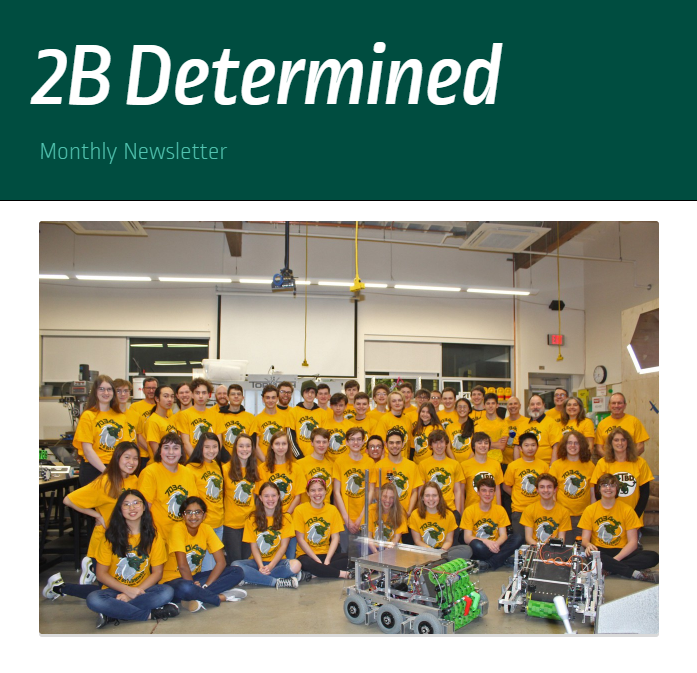
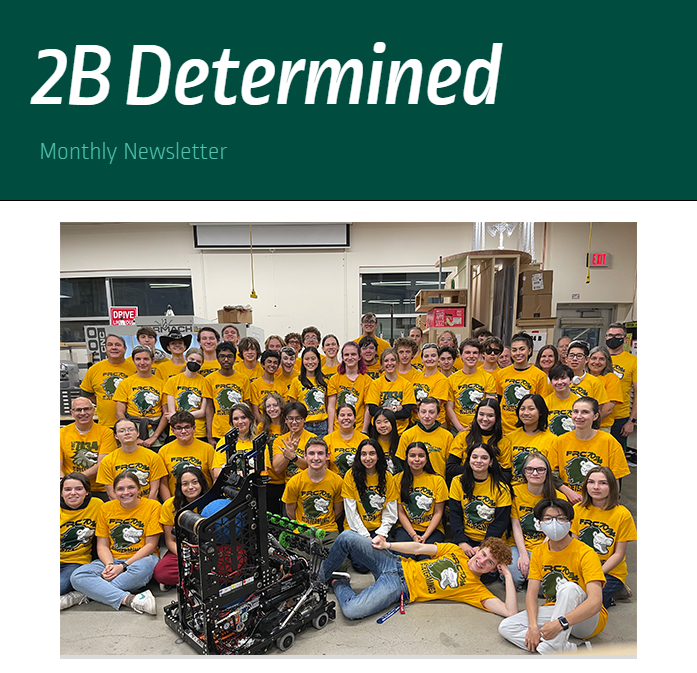
Deleto Stuff and background stuff
Newsletter WIP, don't touch it

diff --git a/website/src/pages/HourOfCode.js b/website/src/pages/HourOfCode.js
@@ -6,7 +6,7 @@ class HourOfCode extends Component {
     render() {
         return(
             <div className="container">
-                <div className="header">
+                <div className="header white-text">
                     <Typewriter
   
                     onInit={(typewriter)=> {
@@ -23,11 +23,11 @@ class HourOfCode extends Component {
                     />
                 </div>
                 <img className="coding-img" src={require("../artifacts/images/Code typing-bro.png")} alt="coding-img"></img>
-                <div className="content">
-                    <div className="second-title"><h2>A great way to start your coding journey~</h2></div>
+                <div className="content white-text">
+                    <div className="second-title white-text"><h2>A great way to start your coding journey~</h2></div>
                     <div className = "dottedLine"></div>
                         <div className="intro">
-                            <h2 className = "h2">Introduction</h2>
+                            <h2 className = "h2 white-text">Introduction</h2>
                             <img className = "intro-img"
                             src = {require("../artifacts/images/Code review-amico.png")}
                             alt = "intro-img"
@@ -45,7 +45,7 @@ class HourOfCode extends Component {
                             <div className = "dottedLine"></div>
                             <div className="elementary">
 
-                                <h2 className="h2">Elementary School Level - Dance Party</h2>
+                                <h2 className="h2 white-text">Elementary School Level - Dance Party</h2>
                                 <img className="dance-img"
                                 src={require("../artifacts/images/dance.gif")}
                                 alt="dance-img"
@@ -57,7 +57,7 @@ class HourOfCode extends Component {
                                         <a className="hoc-btn" href="https://curriculum.code.org/hoc/plugged/8/">Teacher Notes</a> 
                                     </div>
                                 </div>
-                                <p className="dance-body">
+                                <p className="dance-body white-text">
                                 Warm Up - <br />
                                 As a class, first think about “what’s your favorite way to be creative?” <br/>
                                 Today, we are going to be creative “code”, and dancing!! <br/>
@@ -67,7 +67,7 @@ class HourOfCode extends Component {
                                 </p>
                                 
 
-                                <p className="dance-body">
+                                <p className="dance-body white-text">
                                 Go through the tutorial either as a class or in pairs, 
                                 create a dance party of your own, featuring your favorite songs and artists!  <br />
                                 Don’t forget to print out 
@@ -81,7 +81,7 @@ class HourOfCode extends Component {
                             <div className = "dottedLine"></div>
 
                             <div className="middle-school">
-                                <h2 className="h2">Middle School Level - Frozen</h2>
+                                <h2 className="h2 white-text">Middle School Level - Frozen</h2>
                                 <img className="anna-img"
                                 src={require("../artifacts/images/anna.jpg")}
                                 alt="anna-img"
@@ -93,11 +93,11 @@ class HourOfCode extends Component {
                                         <a className="hoc-btn" href="https://curriculum.code.org/hoc/plugged/2/">Teacher Notes </a>
                                     </div> 
                                 </div>
-                                <p className="elsa-body">
+                                <p className="elsa-body white-text">
                                 Warm Up - <br />
                                 As a class, think about what does the word ‘code’ mean? What does “debugging’ mean? <br/>
                                 </p>
-                                <p className="elsa-body">As a class or work in pairs, follow the steps on the instruction <br />
+                                <p className="elsa-body white-text">As a class or work in pairs, follow the steps on the instruction <br />
                                 and code with Elsa and Anna to create a winter wonderland. <br/>
                                  You will create snowflakes and patterns as you ice-skate and <br />
                                  make a winter wonderland that you can then share with your friends! <br />
@@ -113,7 +113,7 @@ class HourOfCode extends Component {
                             
                         <div className = "dottedLine"></div>
                             <div className="high-school">
-                                <h2 className="h2">High School Level - Star Wars</h2>
+                                <h2 className="h2 white-text">High School Level - Star Wars</h2>
                                 <img className="star-wars-img"
                                 src={require("../artifacts/images/star-wars.jpg")}
                                 alt="star-wars-img"
@@ -126,7 +126,7 @@ class HourOfCode extends Component {
                                         <a className="hoc-btn" href="https://code.org/files/star-wars-lp.pdf" >Teacher Notes </a> 
                                     </div>
                                 </div>
-                                <p className="star-wars-body">
+                                <p className="star-wars-body white-text">
                                     Warm up - <br />
                                     As a class, 
                                     discuss what you already know about “coding” or “programming! <br/>
@@ -142,7 +142,7 @@ class HourOfCode extends Component {
                         <div className = "dottedLine"></div>
 
                             <div>
-                                <h2 className="h2">Resources.</h2>
+                                <h2 className="h2 white-text">Resources.</h2>
                                 <p className="body">Below are some amazing free online resources that can teach you about Python, Java, HTML, CSS, and Javascript</p>
                                 <p className="body">Happy coding everyone 🖤💗</p>
                             </div>
@@ -168,7 +168,7 @@ class HourOfCode extends Component {
                                 />
                                 <ul className="java-coding-resources">
                                     <a className="geeksforgeeks" href="https://www.geeksforgeeks.org/java/?ref=shm">GeeksforGeeks - ☕</a><br/>
-                                    <p className="java-descr">This self-paced Java tutorial goes in detail of 
+                                    <p className="java-descr white-text">This self-paced Java tutorial goes in detail of 
                                     what Java is and how Java works, including concepts such as Strings,
                                     Methods, Flow Control etc that will allow you to code a cool program of your own!</p>
                                 </ul>
@@ -181,7 +181,7 @@ class HourOfCode extends Component {
                                 />
                                 <ul className="the-combo-resources">
                                     <a className="w3school-css" href="https://www.w3schools.com">W3Schools - 📑</a><br/>
-                                    <p className="combo-dev">W3Schools include lots of fun practices along with detailed
+                                    <p className="combo-dev white-text">W3Schools include lots of fun practices along with detailed
                                     description for HTML, CSS, and Javascript, the combo you would need to build
                                     a functional website, like this one!</p>
 

diff --git a/website/src/pages/Home.js b/website/src/pages/Home.js
@@ -78,7 +78,7 @@ class Home extends Component {
                                 <h1 className="display-4 font-weight-bold">2B United</h1>
                                 <h1 className="display-4 font-weight-bold">2B Inspired</h1>
                                 <h1 className="display-4 font-weight-bold">2B Determined</h1>
-                                <img src={require('../artifacts/images/2021teamphoto.JPG')} className="d-block w-100" alt="PPE" />
+                                <img src={require('../artifacts/images/TeamPhoto.png')} className="d-block w-100" alt="PPE" />
                                 <div className="row mt-4">
                                     <div className="col-sm-4 mb-2">
 
@@ -137,9 +137,9 @@ class Home extends Component {
                             </div>
                         </div>
                     </div>
-                    <div className="col-sm-8">
-
-                        <div className="jumbotron text-center bg-white">
+                      <div className="col-sm-8">
+{/*
+                      <div className="jumbotron text-center bg-white">
                             <div className="row">
                                 <div className="col-sm my-auto">
                                     <h1 className="display-4 font-weight-bold">Full Steam Ahead Camp</h1>
@@ -160,9 +160,10 @@ class Home extends Component {
                                    <img src={require('../artifacts/images/FULL Steam Ahead/IMG 2.JPG')} className="w-50" alt="PPE" />
                                    <img src={require('../artifacts/images/FULL Steam Ahead/IMG 1.JPG')} className="w-50" alt="PPE" />
                                 </div>
-
+ 
                             </div>
-                        </div>
+                    </div>
+                    */}
 
 
 
@@ -186,6 +187,20 @@ class Home extends Component {
                             </div>
                         </div>
                         */} 
+                        <div className="jumbotron text-center bg-white">
+                            <div className="row">
+                                <div className="col-sm my-auto">
+                                    <h1 className="display-4 font-weight-bold">Newsletter</h1>
+                                    <p className="lead">
+                                        Sign up for our newsletter in order to recieve updates about the team every month!
+                                    </p>
+                                    <a href="https://www.smore.com/63e8z-wlhs-robotics" target="_blank" rel="noopener noreferrer" type="button" className="btn btn-success mx-2 mb-1">View</a>
+                                </div>
+                                <div className="col-sm mt-3 mt-md-0">
+                                    <img src={require('../artifacts/images/newsletter.PNG')} className="d-block w-100" alt="letter" />
+                                </div>
+                            </div>
+                        </div>
 
                         <div className="jumbotron text-center bg-white">
                             <div className="row">
@@ -253,20 +268,7 @@ class Home extends Component {
                             </div>
                         </div>
                         */}
-                        <div className="jumbotron text-center bg-white">
-                            <div className="row">
-                                <div className="col-sm my-auto">
-                                    <h1 className="display-4 font-weight-bold">Newsletter</h1>
-                                    <p className="lead">
-                                        Sign up for our newsletter in order to recieve updates about the team every month!
-                                    </p>
-                                    <a href="https://www.smore.com/7pdna" target="_blank" rel="noopener noreferrer" type="button" className="btn btn-success mx-2 mb-1">View</a>
-                                </div>
-                                <div className="col-sm mt-3 mt-md-0">
-                                    <img src={require('../artifacts/images/newsletter.PNG')} className="d-block w-100" alt="letter" />
-                                </div>
-                            </div>
-                        </div>
+
                         {/*
                         <div className="jumbotron text-center bg-white">
                             <div className="row">

diff --git a/website/src/pages/Sponsors.js b/website/src/pages/Sponsors.js
@@ -1,15 +1,16 @@
 import React, { Component } from 'react';
+import "./test.css";
 
 class Sponsors extends Component {
     render() {
         return(
             <div className="container">
                 <div className="row text-center">
-                    <h2 className="display-4 font-weight-bold w-100">We thank our sponsors for making this program possible!</h2>
+                    <h2 className="display-4 font-weight-bold w-100 white-text">We thank our sponsors for making this program possible!</h2>
                 </div>
                 <hr />
                 <div className="row text-center">
-                    <h1 className="font-weight-bold w-100">Title Sponsors</h1>
+                    <h1 className="font-weight-bold w-100 white-text">Title Sponsors</h1>
                 </div>
                 <div className="row text-center">
                     <div className="col-sm mt-3">
@@ -27,7 +28,7 @@ class Sponsors extends Component {
                 </div>
                 <hr />
                 <div className="row text-center">
-                    <h1 className="font-weight-bold w-100">Gold Sponsors</h1>
+                    <h1 className="font-weight-bold w-100 white-text">Gold Sponsors</h1>
                 </div>
                 <div className="row text-center mt-3">
                     <div className="col-sm mt-3">
@@ -53,7 +54,7 @@ class Sponsors extends Component {
                 </div>
                 <hr />
                 <div className="row text-center">
-                    <h1 className="font-weight-bold w-100">Bronze Sponsors</h1>
+                    <h1 className="font-weight-bold w-100 white-text">Bronze Sponsors</h1>
                 </div>
                 <div className="row text-center mt-3">
                     <div className="col-sm mt-3">
@@ -80,7 +81,7 @@ class Sponsors extends Component {
                 </div>
                 <hr />
                 <div className="row text-center">
-                    <h1 className="font-weight-bold w-100">Community Sponsors</h1>
+                    <h1 className="font-weight-bold w-100 white-text">Community Sponsors</h1>
                 </div>
                 <div className="row text-center mt-3">
                     <div className="col-sm mt-3">
@@ -191,7 +192,7 @@ class Sponsors extends Component {
 
                 <hr />
                 <div className="row text-center">
-                    <h1 className="font-weight-bold w-100">Community Partners</h1>
+                    <h1 className="font-weight-bold w-100 white-text">Community Partners</h1>
                 </div>
                 <div className="row text-center mt-3">
                     <div className="col-sm mt-3">

diff --git a/website/src/pages/SupportUs.js b/website/src/pages/SupportUs.js
@@ -2,12 +2,13 @@ import React, { Component } from 'react';
 import { CopyToClipboard } from 'react-copy-to-clipboard';
 import { FontAwesomeIcon } from '@fortawesome/react-fontawesome';
 import { faCopy } from '@fortawesome/free-solid-svg-icons';
+import "./test.css";
 
 class SupportUs extends Component {
     render() {
         return (
             <div className="row text-center">
-            <h1 className="font-weight-bold w-100">Interested in Supporting Us?</h1>
+            <h1 className="font-weight-bold w-100 white-text">Interested in Supporting Us?</h1>
             <div className="col-sm">
                 <div className="card h-100">
                     <div className="card-body">
@@ -35,6 +36,14 @@ class SupportUs extends Component {
                                     West Linn High School ASB<br />
                                     Attn: Robotics<br />
                                     5464 West A Street West Linn, Oregon 97068
+                                </p>
+                            </div>
+                        </div>
+                        <div className="row px-3">
+                            <div className="m-3 p-3 bg-light w-100 h-100 textCenter addressBox">
+                                <h5>IRS EIN</h5>
+                                <p>
+                                    85-1375698 <br />
                                 </p>
                             </div>
                         </div>

diff --git a/website/src/elements/Navbar.js b/website/src/elements/Navbar.js
@@ -31,7 +31,7 @@ class Navbar extends Component {
                                     </b>
                             </div>
                     </a>*/}
-                    <ul className="navbar-nav mx-auto text-center" style={{paddingRight: "200px"}}> {/*This controls the location in the navbar, used to be ml-auto*/}
+                    <ul className="navbar-nav mx-auto text-center" style={{paddingRight: "50px"}}> {/*This controls the location in the navbar, used to be ml-auto*/}
                         <NavElement to="/home">Home</NavElement>
                         <li className="nav-item dropdown">
                             <a className="nav-link dropdown-toggle" href="#" role="button" data-toggle="dropdown">
@@ -59,7 +59,9 @@ class Navbar extends Component {
                         </li>
                         <NavElement to="/calendar">Calendar</NavElement>
                         <NavElement to="/sponsors">Our Sponsors</NavElement>
+                        {/*<NavElement to="/Newsletter">Newsletter</NavElement>*/}
                         <NavElement to="/SupportUs">Support Us</NavElement>
+
                 </ul>    
                         {/*<NavElement to="#">Scouting Information</NavElement>*/}
                         

diff --git a/website/src/pages/Newsletter.js b/website/src/pages/Newsletter.js
@@ -1,0 +1,24 @@
+import React, { Component } from 'react';
+
+{/* https://www.smore.com/63e8z-wlhs-robotics Update */}
+    class Newsletter extends Component {
+        render() {
+            return (
+                <div className="container-fluid">
+                <div className="row">
+                    <div className="col-sm-2" />
+                    <div className="col-sm-8">
+                        <div className="jumbotron text-center bg-white">
+                            <div className="col-sm my-auto">
+                                WIP
+                            </div>
+                        </div>
+                        <div className="col-sm-2" />
+                    </div>
+                </div>
+            </div>
+            )
+        }
+    }
+
+export default Newsletter;

diff --git a/website/src/App.js b/website/src/App.js
@@ -11,6 +11,7 @@ import Sponsors from './pages/Sponsors';
 import HourOfCode from './pages/HourOfCode';
 import Compresults from './pages/Compresults';
 import SupportUs from './pages/SupportUs';
+import Newsletter from './pages/Newsletter';
 
 function App() {
   return (
@@ -31,6 +32,7 @@ function App() {
             <Route exact path="/community/camps" component={Camps} />
             <Route exact path="/calendar" component={Calendar} />
             <Route exact path="/sponsors" component={Sponsors} />
+            <Route exact path="/Newsletter" component={Newsletter} />
             <Route exact path="/SupportUs" component={SupportUs} />
             <Redirect from="/" to="/home" />
           </Switch>

diff --git a/website/src/pages/test.css b/website/src/pages/test.css
@@ -56,7 +56,7 @@
 }
 
 .dottedLine {
-    border: dotted #678983 8px;
+    border: dotted #ffffff 8px;
     border-bottom: none;
     width: 8%;
     margin: 50px auto;
@@ -194,6 +194,10 @@
     font-family: 'Arvo', serif;
     text-align: center;
     line-height: 2;
+}
+
+.white-text {
+    color: white;
 }
 
 .star-wars-img {

diff --git a/website/src/index.css b/website/src/index.css
@@ -31,6 +31,6 @@ iframe {
 }
 
 .backgroundTexture {
-  background-color: #ffffff;
+  background-color: #0e5610;
   background-image: url(./artifacts/images/backgroundTexture.png);
 }
